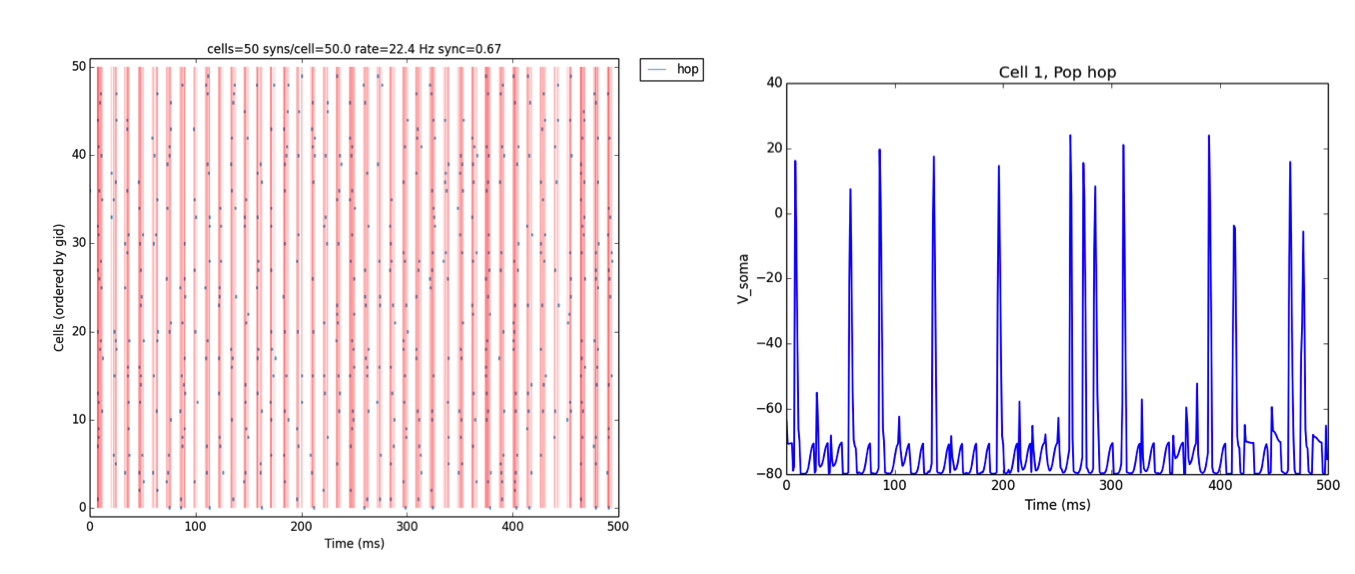
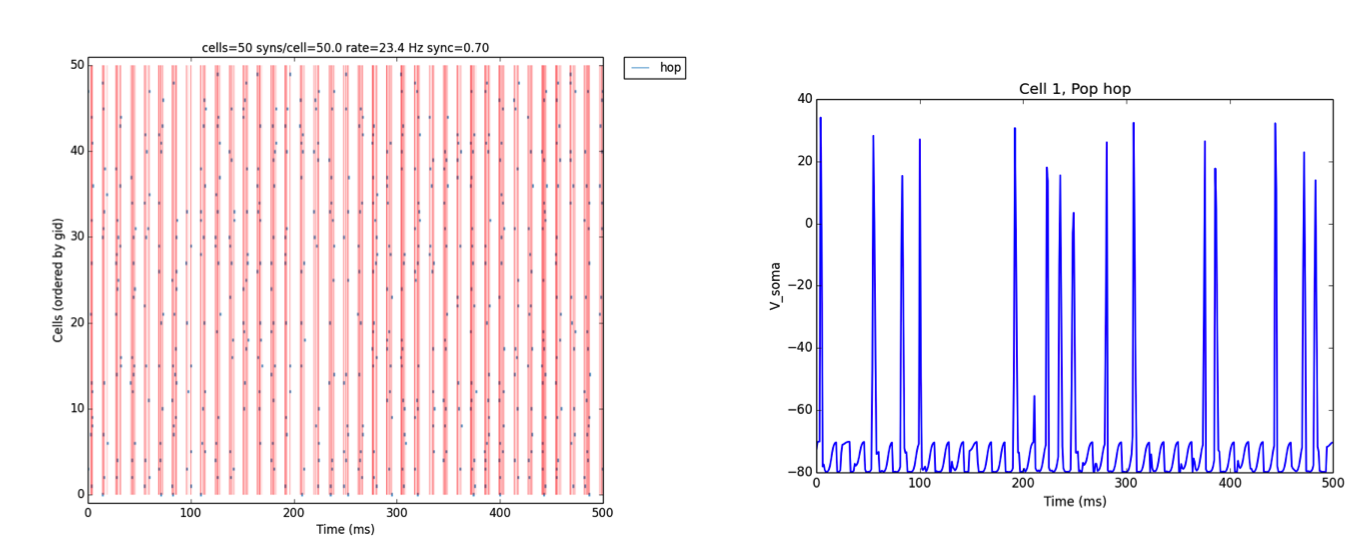
updated tut7.py

Changed region(s): [[0.031, 0.0608, 0.5269, 0.9732], [0.5269, 0.1216, 0.9919, 0.9123]]

diff --git a/doc/source/code/tut7.py b/doc/source/code/tut7.py
@@ -90,6 +90,7 @@ sim.analysis.plotData()                   # plot spike raster
 # # INTERACTING WITH INSTANTIATED NETWORK
 # ###############################################################################
 
+# modify conn weights
 sim.net.modifyConns({'conds': {'label': 'hop->hop'}, 'weight': 0.5})
 
 sim.runSim()                          # run parallel Neuron simulation  
@@ -97,6 +98,13 @@ sim.gatherData()                      # gather spiking data and cell info from e
 sim.saveData()                        # save params, cell info and sim output to file (pickle,mat,txt,etc)
 sim.analysis.plotData()                   # plot spike raster
 
+# modify cells geometry
+sim.net.modifyCells({'conds': {'popLabel': 'hop'}, 
+                    'secs': {'soma': {'geom': {'L': 160}}}})
+
+sim.simulate()
+sim.analysis.plotRaster(syncLines=True)
+sim.analysis.plotTraces(include = [1])
 
 
 

diff --git a/netpyne/cell.py b/netpyne/cell.py
@@ -55,6 +55,10 @@ class Cell (object):
                 if condVal not in self.tags['label']:
                     conditionsMet = 0
                     break
+            elif isinstance(condVal, list):
+                if self.tags.get(condKey) < condVal[0] or self.tags.get(condKey) > condVal[1]:
+                    conditionsMet = 0
+                    break
             elif self.tags[condKey] != condVal: 
                 conditionsMet = 0
                 break

diff --git a/doc/source/tutorial.rst b/doc/source/tutorial.rst
@@ -623,6 +623,7 @@ We can therefore call the ``sim.net.modifyConns()`` function to increase all the
 	# INTERACTING WITH INSTANTIATED NETWORK
 	###############################################################################
 
+	# modify conn weights
 	sim.net.modifyConns({'conds': {'label': 'hop->hop'}, 'weight': 0.5})
 
 	sim.runSim()                          # run parallel Neuron simulation  
@@ -637,6 +638,28 @@ We can therefore call the ``sim.net.modifyConns()`` function to increase all the
 The resulting plots show that the increased mutual inhibitions synchronizes the network activity, increasing the synchrony measure to 0.70:
 
 .. image:: figs/tut7_2.png
+	:width: 70%
+	:align: center
+
+
+Additionally, we could also modify some of the cell properties to observe how this affects synchrony. The code below modifies the soma length of all cells in the 'hop' population to 160 um::
+
+
+	# modify cells geometry
+	sim.net.modifyCells({'conds': {'popLabel': 'hop'}, 
+	                    'secs': {'soma': {'geom': {'L': 160}}}})
+
+	sim.simulate()
+	sim.analysis.plotRaster(syncLines=True)
+	sim.analysis.plotTraces(include = [1])
+
+
+.. note:: For illustration purposes we make use of the ``sim.simulate()`` wrapper, which simply calls ``runSim()`` and ``gatherData()``. Additionally, we interactively call the ``sim.plotRaster()`` and ``sim.plotTraces()`` functions.
+
+
+The resulting plot shows decreased firing rate and increased synchrony due to the new cell geometry:
+
+.. image:: figs/tut7_3.png
 	:width: 70%
 	:align: center
 
